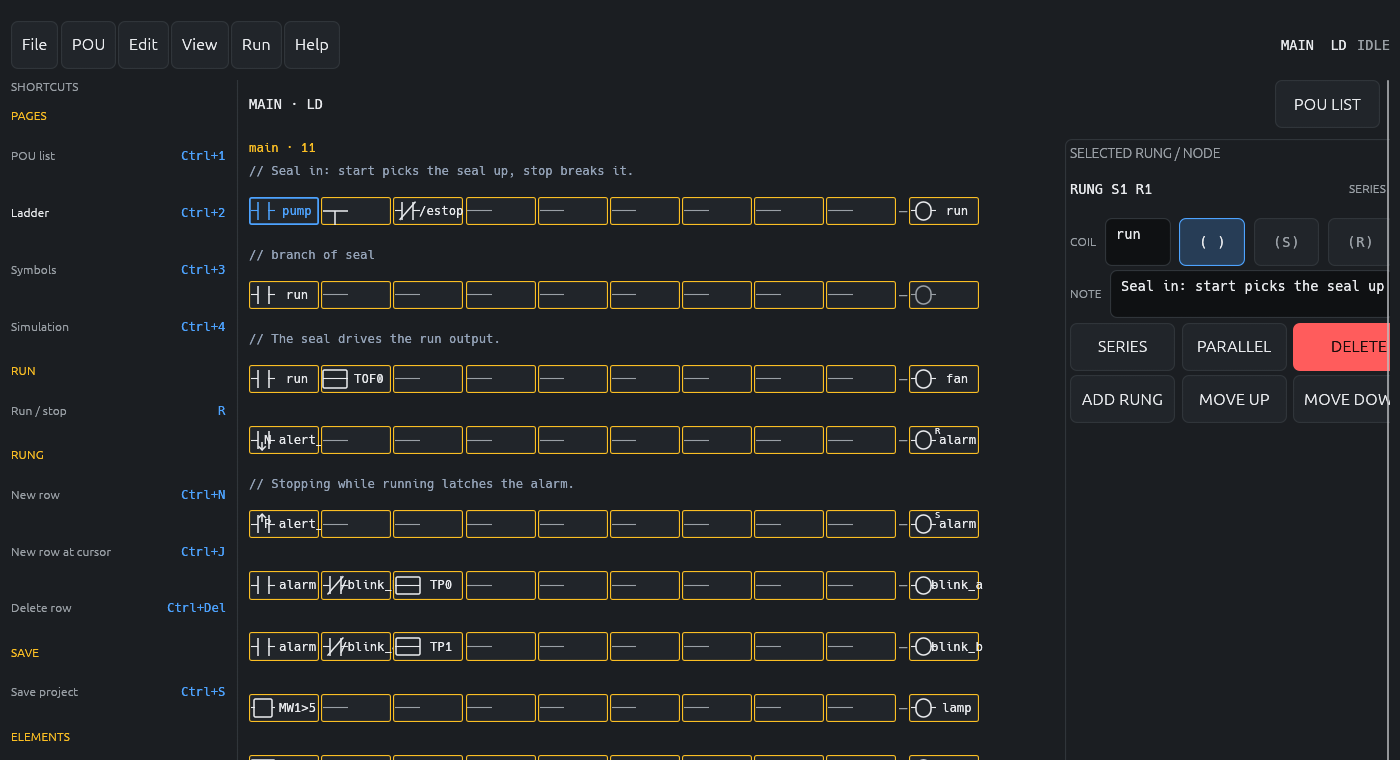
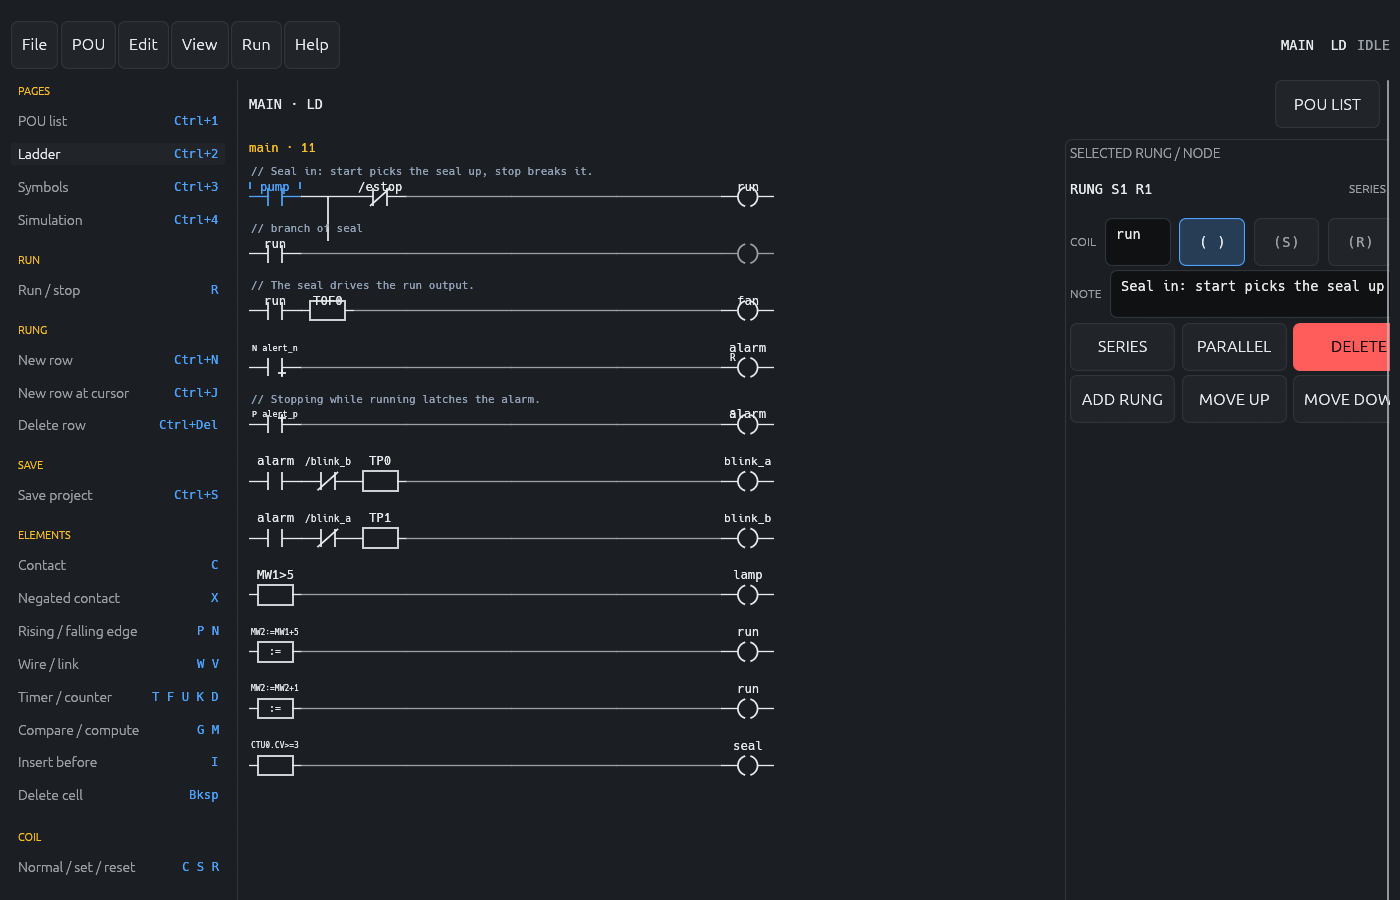
fix(plc): expression labels shrink to fit, and comment and operand baselines separate
Expression labels were clipped at the strip edges, so MW1>5 lost its first characters
and MW2:=MW1+5 lost the operator. A label now shrinks its monospace size until the
whole name fits the cell, with a floor so it stays legible, and the layout is centred
on the measured galley. The strip is 40 px tall with the comment at the top band and
the operand name below it, keeping the conductor and the link pitch exact.

The friction log now records what the ZX pass resolved — start refusal, monitor
layout, bare-strip geometry, clipped labels, truncated expression values and double
applied chords — with the live-values screenshot, and keeps only the limitations that
are still true.

diff --git a/crates/linc-ui/src/screens/plc_grid.rs b/crates/linc-ui/src/screens/plc_grid.rs
@@ -1564,7 +1564,7 @@ pub fn grid_rung(
                 &label,
                 matches!(cell, Cell::Wire),
                 cell_symbol(&cell),
-                if commented { 15.0 } else { 8.0 },
+                if commented { 19.0 } else { 10.0 },
             );
         }
         let coil = plc.operand_label(&rung.coil.var);
@@ -1577,7 +1577,7 @@ pub fn grid_rung(
             &coil,
             rung.coil.var.is_empty(),
             CellSymbol::Coil(rung.coil.kind),
-            if commented { 15.0 } else { 8.0 },
+            if commented { 19.0 } else { 10.0 },
         );
     });
     if commented {
@@ -1585,7 +1585,7 @@ pub fn grid_rung(
         // drop to the branch row lands on that row's conductor.
         let rect = strip.response.rect;
         ui.painter().text(
-            egui::pos2(rect.left() + 2.0, rect.top() + 6.0),
+            egui::pos2(rect.left() + 2.0, rect.top() + 7.0),
             Align2::LEFT_CENTER,
             format!("// {}", rung.comment),
             FontId::monospace(theme::font_size(8.0)),
@@ -1638,8 +1638,8 @@ pub fn cell_symbol(cell: &Cell) -> CellSymbol {
 /// cell borders and no spacing between cells. A row is a strip whose conductor
 /// runs along `CONDUCTOR_Y` from its left edge to its right edge.
 pub const CELL_WIDTH: f32 = 48.0;
-pub const CELL_HEIGHT: f32 = 36.0;
-pub const CONDUCTOR_Y: f32 = 24.0;
+pub const CELL_HEIGHT: f32 = 40.0;
+pub const CONDUCTOR_Y: f32 = 28.0;
 pub const ROW_GAP: f32 = 0.0;
 /// Distance from one row's conductor to the next row's conductor.
 pub const ROW_STRIDE: f32 = CELL_HEIGHT + ROW_GAP;
@@ -1794,13 +1794,31 @@ fn cell_box(
     }
     draw_cell_symbol(painter, rect, symbol, color);
     if !label.is_empty() {
-        painter.text(
-            egui::pos2(rect.center().x, rect.top() + name_y),
-            Align2::CENTER_CENTER,
-            label,
-            FontId::monospace(theme::font_size(8.5)),
-            color,
-        );
+        // Fit the operand inside the cell: expressions such as `MW2:=MW1+5` and
+        // long coil names were clipped at the strip edges. The font shrinks to fit
+        // rather than the name being cut, and a very long name keeps a floor so it
+        // stays legible.
+        let available = rect.width() - 4.0;
+        let mut size = theme::font_size(8.5);
+        loop {
+            let galley = painter.layout_no_wrap(
+                label.to_string(),
+                FontId::monospace(size),
+                color,
+            );
+            if galley.size().x <= available || size <= 5.5 {
+                painter.galley(
+                    egui::pos2(
+                        rect.center().x - galley.size().x / 2.0,
+                        rect.top() + name_y - galley.size().y / 2.0,
+                    ),
+                    galley,
+                    color,
+                );
+                break;
+            }
+            size -= 0.5;
+        }
     }
 }
 

diff --git a/docs/screenshots/plc-gui-friction.md b/docs/screenshots/plc-gui-friction.md
@@ -40,16 +40,41 @@ is covered by a fullscreen browser.
 Build DEMO_LD's four rungs through the grid once 2 and 3 are fixed, then the
 compare/compute POU, then run it and capture the simulation.
 
-## After the ZX geometry + shortcut strip (session 2)
+## Resolved in the ZX geometry pass
 
-- **Fixed**: per-cell boxes/borders removed, zero spacing, one conductor, names above
-  symbols, coil as two arcs, link drop exact, comments inside the strip, ladder clipped
-  to its column, shortcut strip on main-GUI row metrics.
-- **Open**: on this build the Sim page shows `page=Sim` and the daemon answers snapshots
-  (`run=Idle`), but neither `R` nor the Run menu starts the ladder — no Load/Start reaches
-  the daemon (`vars=0`). The same project ran earlier in the session (`vars=13`, all six
-  behaviours captured), so this is a regression in key consumption or in the Load path,
-  not in the ladder.
-- **Open**: comment text and the operand name share the strip band and can crowd at 8-9 px.
-- **Open**: expressions rows 7-10 are authored but their live values were never observed
-  in the Watch/Symbols table.
+- **Sim page would not start.** Two causes, both fixed and logged: the validator
+  counted a compute rung's unused coil as a write, so `Load` was refused with
+  "`run` has more than one write coil" (`70074dc`), and the daemon serves a single
+  client, so a second client saw `WouldBlock` — which is what several "no reply"
+  runs actually were.
+- **Sim page layout.** The ladder monitor has its own bounded scroll pane, so the
+  I/O tiles are always on screen (`6987a64`).
+- **Ladder looked like a table.** Now bare strips: no cell borders or backgrounds,
+  zero spacing, one conductor, names above symbols, coil as two arcs, comments in
+  the strip band, exact link pitch (`69c7ff2`, `d0b719c`).
+- **Expression labels clipped.** Labels shrink to fit the cell instead of being cut,
+  and the comment and operand baselines are separated inside a 40 px strip.
+- **Expression values truncated.** `ExprEdit.text` holds the per-stage buffer, so a
+  value typed across frames arrives whole (`7c27f9d`).
+- **Chords applied twice / modifier mismatch.** `ctrl_key` consumes `CTRL` and
+  `CTRL|COMMAND` once each (`677a6cf`, `e034edf`).
+
+## Verified behaviours (screenshots in this directory)
+
+Pump seal-in (`plc-sim-pump`), seal holding after release (`plc-sim-seal-in`),
+estop dropping the run (`plc-sim-estop`), the 5 s fan run-on (`plc-sim-fan-runon`),
+alert set and reset (`plc-sim-alert-set`, `plc-sim-alert-reset`), blinkers
+alternating (`plc-sim-blink-a`, `plc-sim-blink-b`), and live symbol values with
+`lamp` false at `MW1 = 0` (`plc-sim-live-values`).
+
+## Genuine known limitations
+
+- **One client at a time.** The daemon accepts a single connection; a second client
+  blocks. Worth a queue or a clear refusal message.
+- **Words are not in the Symbols table.** Only boolean symbols show live values; the
+  `MW` bank and block members are visible in the snapshot and the watch list, not in
+  that table.
+- **Coil glyph** is a pair of arcs drawn as polylines; it reads correctly at this
+  size but is not the exact IEC curve.
+- **Menu clicks** still do not open dropdowns in the workbench; the keyboard paths
+  (View/Run with Down+Enter, Ctrl+1..4) are the supported route.
